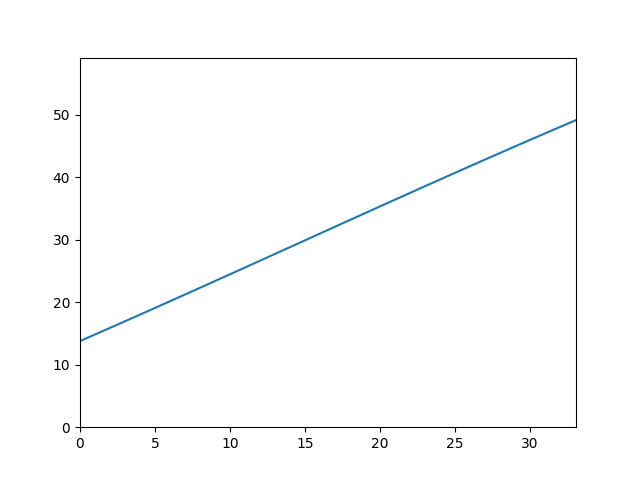
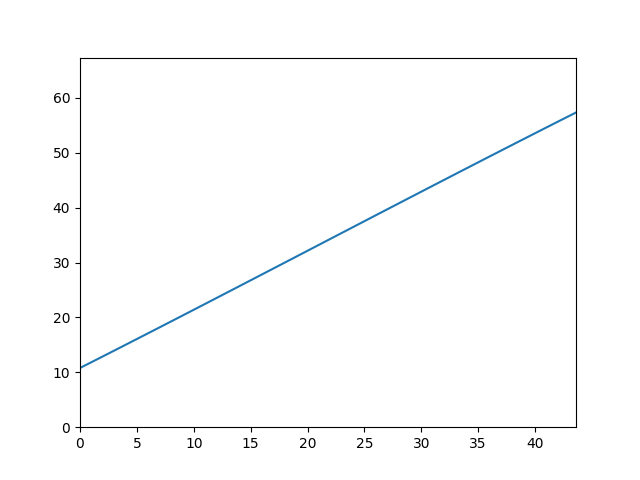
Initial anal

diff --git a/derailleurs/Shimano Deore M6100/default.htm b/derailleurs/Shimano Deore M6100/default.htm
@@ -25,19 +25,19 @@ Shimano Deore 12-Speed
   </tr>
   <tr>
     <th>Curve Coefficients</th>
-    <td>13.78, 1.047, 0.00278, -0.000064</td>
+    <td>10.79, 1.049, 0.00134, -0.000021</td>
   </tr>
   <tr>
     <th>Physical Low Limit</th>
-    <td>13.78</td>
+    <td>10.79</td>
   </tr>
   <tr>
     <th>Physical High Limit</th>
-    <td>49.11</td>
+    <td>57.33</td>
   </tr>
   <tr>
     <th>Pull Ratio Averaged Across Pulling Runs</th>
-    <td>1.070 +/- 0.000</td>
+    <td>1.073 +/- 0.000</td>
   </tr>
   <tr>
     <th>Pull Ratio Averaged Across Relaxing Runs</th>
@@ -45,11 +45,11 @@ Shimano Deore 12-Speed
   </tr>
   <tr>
     <th>Pull Ratio Averaged Across All Runs</th>
-    <td>1.070 +/- 0.000</td>
+    <td>1.073 +/- 0.000</td>
   </tr>
   <tr>
     <th>Pull Ratio 95% Confidence Interval</th>
-    <td>1.070 to 1.070</td>
+    <td>1.073 to 1.073</td>
   </tr>
   
   
@@ -68,10 +68,10 @@ Shimano Deore 12-Speed
 
 
 <section>
-<h2>2025-01-18 14-24 PM Pulling</h2>
-<a href="pullratio/2025-01-18 14-24 PM Pulling.csv">Raw Measurement Data</a>
+<h2>2025-01-18 15-13 PM Pulling</h2>
+<a href="pullratio/2025-01-18 15-13 PM Pulling.csv">Raw Measurement Data</a>
 <figure>
-<img src="pullratio/2025-01-18 14-24 PM Pulling.png"/>
+<img src="pullratio/2025-01-18 15-13 PM Pulling.png"/>
 <figcaption>Data and best fit line, excluding points taken at limits</figcaption>
 </figure>
 </section>
